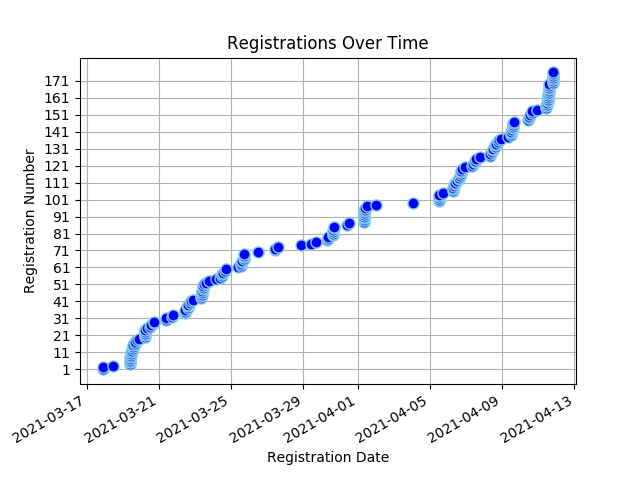
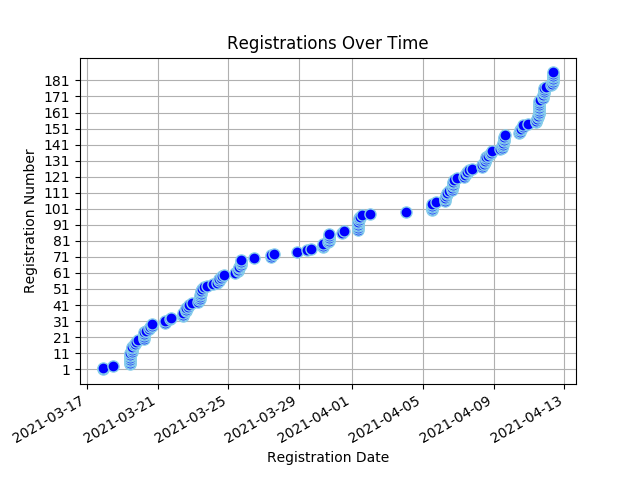
Registree stats backup on Mon 12 Apr 2021 09:20:03 SAST

diff --git a/content/registrees/_index.md b/content/registrees/_index.md
@@ -3,9 +3,9 @@ title: Registration Stats
 draft: false
 ---
 
-<ul><li><strong>Number of Registrees</strong>: 176</li>
+<ul><li><strong>Number of Registrees</strong>: 186</li>
 
-<li><strong>Number of Clubs</strong>: 56</li>
+<li><strong>Number of Clubs</strong>: 59</li>
 
 <li><strong>Club With Most Attendees</strong>: Windhoek (12 registrees)</li>
 </ul><h2>Registrees</h2>
@@ -33,6 +33,6 @@ draft: false
         </tr>
     </thead>
     <tbody>
-<tr><td>Natalie Abrahams</td><td>Cape Town</td><td>410W</td></tr><tr><td>Rashid Adams</td><td>Athlone</td><td>410W</td></tr><tr><td>Linda Anderson</td><td>George</td><td>410W</td></tr><tr><td>Linda Baumgarten</td><td>Sea Point</td><td>410W</td></tr><tr><td>Ulrike Behrens</td><td>Windhoek</td><td>410W</td></tr><tr><td>Valencia Beukes-Williams</td><td>Kuilsriver</td><td>410W</td></tr><tr><td>JOSE BRAGA BORGES</td><td>Malmesbury</td><td>410W</td></tr><tr><td>Paul Brauteseth</td><td>Port Shepstone</td><td>410E</td></tr><tr><td>Nelle Buhrmann</td><td>Sea Point</td><td>410W</td></tr><tr><td>Christopher Bull</td><td>The Wilds</td><td>410E</td></tr><tr><td>Herman Cadman</td><td>Stellenbosch</td><td>410W</td></tr><tr><td>Artemis Calomiris</td><td>Helderberg</td><td>410W</td></tr><tr><td>Linda Ann Cannone</td><td>Fish Hoek</td><td>410W</td></tr><tr><td>Lizelle Castle</td><td>Athlone</td><td>410W</td></tr><tr><td>Sue Charles</td><td>Tokai</td><td>410W</td></tr><tr><td>Perry Chetty</td><td>East Coast</td><td>410E</td></tr><tr><td>Delaney Yeltsin Cloete</td><td>Eden</td><td>410W</td></tr><tr><td>Kate Coppen</td><td>Letaba Tzaneen</td><td>410E</td></tr><tr><td>Kate Coppen</td><td>Letaba Tzaneen</td><td>410E</td></tr><tr><td>Esme Cornelius</td><td>Kuilsriver</td><td>410W</td></tr><tr><td>Sharon Cottle</td><td>Groote Schuur</td><td>410W</td></tr><tr><td>Peter Daniel</td><td>Gordons Bay</td><td>410W</td></tr><tr><td>Norma Daniel</td><td>Gordons Bay</td><td>410W</td></tr><tr><td>Engela de Kock</td><td>Swellendam</td><td>410W</td></tr><tr><td>Francois de Kock</td><td>Swellendam</td><td>410W</td></tr><tr><td>ANDRE DE VILLIERS</td><td>Malgas</td><td>410W</td></tr><tr><td>ANDRE DE VILLIERS</td><td>Malgas</td><td>410W</td></tr><tr><td>Peggy Du Plooy</td><td>Krugersdorp</td><td>410E</td></tr><tr><td>Ivan Du Plooy</td><td>Krugersdorp</td><td>410E</td></tr><tr><td>Desiree du Toit</td><td>Ramsgate</td><td>410E</td></tr><tr><td>Natalie Etridge</td><td>Sedgefield</td><td>410W</td></tr><tr><td>AIDAN Ewers</td><td>Newlands</td><td>410W</td></tr><tr><td>Roger Fahrbach</td><td>Windhoek</td><td>410W</td></tr><tr><td>Beate Fahrbach</td><td>Windhoek</td><td>410W</td></tr><tr><td>Jules Flanagan</td><td>Tokai</td><td>410W</td></tr><tr><td>Charles Flanagan</td><td>Tokai</td><td>410W</td></tr><tr><td>Clive Fox</td><td>Merriman</td><td>410W</td></tr><tr><td>Pat Fox</td><td>Merriman</td><td>410W</td></tr><tr><td>Martin Froise</td><td>Letaba Tzaneen</td><td>410E</td></tr><tr><td>Valerie Graham</td><td>Nelspruit</td><td>410E</td></tr><tr><td>Mike Graham</td><td>Nelspruit</td><td>410E</td></tr><tr><td>Viv Grater</td><td>Sedgefield</td><td>410W</td></tr><tr><td>Matty Grobler</td><td>Henties Bay</td><td>410W</td></tr><tr><td>Mattheus Groves</td><td>Sedgefield</td><td>410W</td></tr><tr><td>Barbara Haywood</td><td>Eden</td><td>410W</td></tr><tr><td>Mike Heathcote</td><td>Port Shepstone</td><td>410E</td></tr><tr><td>Zarina Hendricks</td><td>Athlone</td><td>410W</td></tr><tr><td>Dorothy Hess</td><td>Kuilsriver</td><td>410W</td></tr><tr><td>Wendy Higgins</td><td>Wilro Park</td><td>410E</td></tr><tr><td>Jacqui Hocking</td><td>Midrand</td><td>410E</td></tr><tr><td>Cliff Hocking</td><td>Midrand</td><td>410E</td></tr><tr><td>Liz Houston</td><td>Table View</td><td>410W</td></tr><tr><td>John Houston</td><td>Table View</td><td>410W</td></tr><tr><td>Alna Jackson</td><td>Pretoria Jakaranda</td><td>410E</td></tr><tr><td>Dawid Jacobs</td><td>Durbanville</td><td>410W</td></tr><tr><td>Jean Jacobs</td><td>Mitchells Plain</td><td>410W</td></tr><tr><td>WOLSLEY Jacobson</td><td>Cape Town</td><td>410W</td></tr><tr><td>MALCOLM JOHNSTON</td><td>Standerton</td><td>410E</td></tr><tr><td>Grant Jonathan</td><td>Gordons Bay</td><td>410W</td></tr><tr><td>Jerome Kern</td><td>Groote Schuur</td><td>410W</td></tr><tr><td>Ian King</td><td>Alberton</td><td>410E</td></tr><tr><td>Sandy King</td><td>Alberton</td><td>410E</td></tr><tr><td>Muya Koloko</td><td>Durbanville</td><td>410W</td></tr><tr><td>Zwaai Kruger</td><td>Sedgefield</td><td>410W</td></tr><tr><td>Natalie Laas</td><td>Alberton</td><td>410E</td></tr><tr><td>Bevil Lakay</td><td>Mitchells Plain</td><td>410W</td></tr><tr><td>Paula Lang</td><td>Gordons Bay</td><td>410W</td></tr><tr><td>Jimmy Lang</td><td>Gordons Bay</td><td>410W</td></tr><tr><td>Heather Lee</td><td>Cape Of Good Hope</td><td>410W</td></tr><tr><td>Zarina Luck</td><td>Newcastle</td><td>410E</td></tr><tr><td>Pam MacRobert</td><td>Groote Schuur</td><td>410W</td></tr><tr><td>Pam MacRobert</td><td>Groote Schuur</td><td>410W</td></tr><tr><td>Sharon Mangwende</td><td>Cape Town</td><td>410W</td></tr><tr><td>Richard MARCHANT</td><td>The Wilds</td><td>410E</td></tr><tr><td>Beaulieu Mare</td><td>Benoni Lakes</td><td>410E</td></tr><tr><td>Nick Maré</td><td>Benoni Lakes</td><td>410E</td></tr><tr><td>Jean Masson</td><td>Port Shepstone</td><td>410E</td></tr><tr><td>LANCE MAYTHAM</td><td>Swellendam</td><td>410W</td></tr><tr><td>ROSEMARIE MAYTHAM</td><td>Swellendam</td><td>410W</td></tr><tr><td>David Mccullough</td><td>Pretoria South</td><td>410E</td></tr><tr><td>Rochelle McDonald</td><td>Vereeniging</td><td>410E</td></tr><tr><td>Alec McKerrow</td><td>Port Alfred</td><td>410E</td></tr><tr><td>Stuart McPherson</td><td>Newlands</td><td>410E</td></tr><tr><td>Mark Meltzer</td><td>The Wilds</td><td>410E</td></tr><tr><td>Denis Meyer</td><td>Port Shepstone</td><td>410E</td></tr><tr><td>Roy Michas</td><td>Midrand</td><td>410E</td></tr><tr><td>Dawn Michas</td><td>Midrand</td><td>410E</td></tr><tr><td>BERNICE MILLS</td><td>Centurion</td><td>410E</td></tr><tr><td>Patrick Mills</td><td>Centurion</td><td>410E</td></tr><tr><td>Cherie Milosevich</td><td>Milnerton</td><td>410W</td></tr><tr><td>Alana Mitchell</td><td>Rustenburg</td><td>410E</td></tr><tr><td>Juan Mitchell</td><td>Rustenburg</td><td>410E</td></tr><tr><td>Virginia Mkhize</td><td>Cape Town</td><td>410W</td></tr><tr><td>Frauke E. Moeller</td><td>Windhoek</td><td>410W</td></tr><tr><td>Bernadine Moses</td><td>Cape Town</td><td>410W</td></tr><tr><td>Jacques Mostert</td><td>Merriman</td><td>410W</td></tr><tr><td>Suzanne Murray</td><td>Vereeniging</td><td>410E</td></tr><tr><td>Pieter Myburg</td><td>Wellington</td><td>410W</td></tr><tr><td>Pieter Nel</td><td>George</td><td>410W</td></tr><tr><td>Tillie Nel</td><td>Eden</td><td>410W</td></tr><tr><td>Mike Newlands</td><td>Port Alfred</td><td>410E</td></tr><tr><td>Mike Newlands</td><td>Port Alfred</td><td>410E</td></tr><tr><td>Chris Ocker</td><td>Fish Hoek</td><td>410W</td></tr><tr><td>Jenny Ocker</td><td>Fish Hoek</td><td>410W</td></tr><tr><td>Debra Olivier</td><td>Sedgefield</td><td>410W</td></tr><tr><td>Teresa Pantoleon</td><td>Vereeniging</td><td>410E</td></tr><tr><td>Sundru Pillay</td><td>Durbanville</td><td>410W</td></tr><tr><td>Tracey Polkinghorne</td><td>Kensington</td><td>410E</td></tr><tr><td>Gavin Polkinghorne</td><td>Kensington</td><td>410E</td></tr><tr><td>BRIAN PORTEOUS</td><td>Hibberdene</td><td>410E</td></tr><tr><td>Mary-Anne Ras</td><td>Swellendam</td><td>410W</td></tr><tr><td>Hugo Reniers</td><td>Nelspruit</td><td>410E</td></tr><tr><td>Sandy Roman</td><td>Bergvliet</td><td>410W</td></tr><tr><td>Mark Rossouw</td><td>Tokai</td><td>410W</td></tr><tr><td>Anthonie Petrus Roux</td><td>Moorreesburg</td><td>410W</td></tr><tr><td>Irene Rugheimer</td><td>Bedfordview</td><td>410E</td></tr><tr><td>Ingrid Russell</td><td>Fish Hoek</td><td>410W</td></tr><tr><td>Rodney Sabatier</td><td>Letaba Tzaneen</td><td>410E</td></tr><tr><td>Sharon Sampie</td><td>Bergvliet</td><td>410W</td></tr><tr><td>Frank Schatz</td><td>Windhoek</td><td>410W</td></tr><tr><td>Vera Schatz</td><td>Windhoek</td><td>410W</td></tr><tr><td>Francis Searle</td><td>Kouga</td><td>410E</td></tr><tr><td>Gloria Searle</td><td>Kouga</td><td>410E</td></tr><tr><td>Ami Sell</td><td>Windhoek</td><td>410W</td></tr><tr><td>Beryl Simpson</td><td>Cape Town</td><td>410W</td></tr><tr><td>Kenlis Sircoulomb</td><td>Windhoek</td><td>410W</td></tr><tr><td>Holger Sircoulomb</td><td>Windhoek</td><td>410W</td></tr><tr><td>Hennie Smeer</td><td>Windhoek</td><td>410W</td></tr><tr><td>Sue Smit</td><td>Centurion</td><td>410E</td></tr><tr><td>Herman Smit</td><td>Swellendam</td><td>410W</td></tr><tr><td>Jeff Smith</td><td>Port Shepstone</td><td>410E</td></tr><tr><td>Bennie Smith</td><td>Wellington</td><td>410W</td></tr><tr><td>Carmen Dolores Smith</td><td>Tokai</td><td>410W</td></tr><tr><td>David John Smith</td><td>Tokai</td><td>410W</td></tr><tr><td>LYN SNYMAN</td><td>Deep South</td><td>410W</td></tr><tr><td>Diana Sochen</td><td>Sea Point</td><td>410W</td></tr><tr><td>Max Stander</td><td>Port Alfred</td><td>410E</td></tr><tr><td>Ashley Stander</td><td>Krugersdorp</td><td>410E</td></tr><tr><td>Brett Jason Stander</td><td>Krugersdorp</td><td>410E</td></tr><tr><td>TIM STEENBERG</td><td>Wellington</td><td>410W</td></tr><tr><td>RORY stier</td><td>Deep South</td><td>410W</td></tr><tr><td>Patrick Strauss</td><td>Kuilsriver</td><td>410W</td></tr><tr><td>Lauryn Talbot</td><td>Benoni Lakes</td><td>410E</td></tr><tr><td>Pierre Theron</td><td>Midrand</td><td>410E</td></tr><tr><td>Moira Theron</td><td>Midrand</td><td>410E</td></tr><tr><td>Diane Townsend</td><td>Benoni Lakes</td><td>410E</td></tr><tr><td>Diane Townsend</td><td>Benoni Lakes</td><td>410E</td></tr><tr><td>David Alex Tshikala</td><td>Athlone</td><td>410W</td></tr><tr><td>Alistair Tuckett</td><td>Roodepoort Clearwater Cyber</td><td>410E</td></tr><tr><td>Rowan Tuckett</td><td>Roodepoort Clearwater Cyber</td><td>410E</td></tr><tr><td>Gail Tuckett</td><td>Roodepoort Clearwater Cyber</td><td>410E</td></tr><tr><td>Jiri Uchytil</td><td>Alberton</td><td>410E</td></tr><tr><td>Carl van Blerk</td><td>Eden</td><td>410W</td></tr><tr><td>HILARY LISE VAN BREDA</td><td>Cape Town</td><td>410W</td></tr><tr><td>Marina Van de Merwe</td><td>Malmesbury</td><td>410W</td></tr><tr><td>Ingrid van der Merwe</td><td>Letaba Tzaneen</td><td>410E</td></tr><tr><td>Sydney van Heerden</td><td>Wilro Park</td><td>410E</td></tr><tr><td>Sandy van Heerden</td><td>Wilro Park</td><td>410E</td></tr><tr><td>Neville Van Rensburg</td><td>Moorreesburg</td><td>410W</td></tr><tr><td>Johan van Rensburg</td><td>Windhoek</td><td>410W</td></tr><tr><td>Anne van Rensburg</td><td>Windhoek</td><td>410W</td></tr><tr><td>Jeannie van Wulven</td><td>Tygerberg Hills</td><td>410W</td></tr><tr><td>Alan van Wulven</td><td>Tygerberg Hills</td><td>410W</td></tr><tr><td>Deon van Wulven</td><td>Tygerberg Hills</td><td>410W</td></tr><tr><td>Kim van Wyk</td><td>North Durban</td><td>410E</td></tr><tr><td>Lindie van Wyk</td><td>Pretoria Jakaranda</td><td>410E</td></tr><tr><td>Edith Van Wyk-Nelson</td><td>Kuilsriver</td><td>410W</td></tr><tr><td>Russell Volker</td><td>King William's Town</td><td>410E</td></tr><tr><td>Brian von der Decken</td><td>King William's Town</td><td>410E</td></tr><tr><td>Rinette Von Mollendorf</td><td>Durbanville</td><td>410W</td></tr><tr><td>Rochelle Vorster</td><td>Sedgefield</td><td>410W</td></tr><tr><td>Alastair Warman</td><td>Port Shepstone</td><td>410E</td></tr><tr><td>Allan Watson</td><td>Sea Point</td><td>410W</td></tr><tr><td>Neville Williamson</td><td>Port Alfred</td><td>410E</td></tr><tr><td>Rocky Wright</td><td>Table View</td><td>410W</td></tr><tr><td>Judy Young</td><td>Durbanville</td><td>410W</td></tr>
+<tr><td>Natalie Abrahams</td><td>Cape Town</td><td>410W</td></tr><tr><td>Rashid Adams</td><td>Athlone</td><td>410W</td></tr><tr><td>Linda Anderson</td><td>George</td><td>410W</td></tr><tr><td>Linda Baumgarten</td><td>Sea Point</td><td>410W</td></tr><tr><td>Ulrike Behrens</td><td>Windhoek</td><td>410W</td></tr><tr><td>Valencia Beukes-Williams</td><td>Kuilsriver</td><td>410W</td></tr><tr><td>Belinda Blakeman</td><td>North Durban</td><td>410E</td></tr><tr><td>JOSE BRAGA BORGES</td><td>Malmesbury</td><td>410W</td></tr><tr><td>JOSE BRAGA BORGES</td><td>Malmesbury</td><td>410W</td></tr><tr><td>Paul Brauteseth</td><td>Port Shepstone</td><td>410E</td></tr><tr><td>Nelle Buhrmann</td><td>Sea Point</td><td>410W</td></tr><tr><td>Christopher Bull</td><td>The Wilds</td><td>410E</td></tr><tr><td>Herman Cadman</td><td>Stellenbosch</td><td>410W</td></tr><tr><td>Artemis Calomiris</td><td>Helderberg</td><td>410W</td></tr><tr><td>Linda Ann Cannone</td><td>Fish Hoek</td><td>410W</td></tr><tr><td>Lizelle Castle</td><td>Athlone</td><td>410W</td></tr><tr><td>Sue Charles</td><td>Tokai</td><td>410W</td></tr><tr><td>Perry Chetty</td><td>East Coast</td><td>410E</td></tr><tr><td>Delaney Yeltsin Cloete</td><td>Eden</td><td>410W</td></tr><tr><td>Kate Coppen</td><td>Letaba Tzaneen</td><td>410E</td></tr><tr><td>Kate Coppen</td><td>Letaba Tzaneen</td><td>410E</td></tr><tr><td>Esme Cornelius</td><td>Kuilsriver</td><td>410W</td></tr><tr><td>Sharon Cottle</td><td>Groote Schuur</td><td>410W</td></tr><tr><td>Peter Daniel</td><td>Gordons Bay</td><td>410W</td></tr><tr><td>Norma Daniel</td><td>Gordons Bay</td><td>410W</td></tr><tr><td>Engela de Kock</td><td>Swellendam</td><td>410W</td></tr><tr><td>Francois de Kock</td><td>Swellendam</td><td>410W</td></tr><tr><td>ANDRE DE VILLIERS</td><td>Malgas</td><td>410W</td></tr><tr><td>ANDRE DE VILLIERS</td><td>Malgas</td><td>410W</td></tr><tr><td>Peggy Du Plooy</td><td>Krugersdorp</td><td>410E</td></tr><tr><td>Ivan Du Plooy</td><td>Krugersdorp</td><td>410E</td></tr><tr><td>Tammy du Plooy</td><td>Alberton</td><td>410E</td></tr><tr><td>Marc du Plooy</td><td>Alberton</td><td>410E</td></tr><tr><td>Desiree du Toit</td><td>Ramsgate</td><td>410E</td></tr><tr><td>Natalie Etridge</td><td>Sedgefield</td><td>410W</td></tr><tr><td>AIDAN Ewers</td><td>Newlands</td><td>410W</td></tr><tr><td>Roger Fahrbach</td><td>Windhoek</td><td>410W</td></tr><tr><td>Beate Fahrbach</td><td>Windhoek</td><td>410W</td></tr><tr><td>Jules Flanagan</td><td>Tokai</td><td>410W</td></tr><tr><td>Charles Flanagan</td><td>Tokai</td><td>410W</td></tr><tr><td>Clive Fox</td><td>Merriman</td><td>410W</td></tr><tr><td>Pat Fox</td><td>Merriman</td><td>410W</td></tr><tr><td>Martin Froise</td><td>Letaba Tzaneen</td><td>410E</td></tr><tr><td>Valerie Graham</td><td>Nelspruit</td><td>410E</td></tr><tr><td>Mike Graham</td><td>Nelspruit</td><td>410E</td></tr><tr><td>Viv Grater</td><td>Sedgefield</td><td>410W</td></tr><tr><td>Matty Grobler</td><td>Henties Bay</td><td>410W</td></tr><tr><td>Mattheus Groves</td><td>Sedgefield</td><td>410W</td></tr><tr><td>Barbara Haywood</td><td>Eden</td><td>410W</td></tr><tr><td>Mike Heathcote</td><td>Port Shepstone</td><td>410E</td></tr><tr><td>Zarina Hendricks</td><td>Athlone</td><td>410W</td></tr><tr><td>Dorothy Hess</td><td>Kuilsriver</td><td>410W</td></tr><tr><td>Wendy Higgins</td><td>Wilro Park</td><td>410E</td></tr><tr><td>Jacqui Hocking</td><td>Midrand</td><td>410E</td></tr><tr><td>Cliff Hocking</td><td>Midrand</td><td>410E</td></tr><tr><td>Liz Houston</td><td>Table View</td><td>410W</td></tr><tr><td>John Houston</td><td>Table View</td><td>410W</td></tr><tr><td>Alna Jackson</td><td>Pretoria Jakaranda</td><td>410E</td></tr><tr><td>Dawid Jacobs</td><td>Durbanville</td><td>410W</td></tr><tr><td>Jean Jacobs</td><td>Mitchells Plain</td><td>410W</td></tr><tr><td>WOLSLEY Jacobson</td><td>Cape Town</td><td>410W</td></tr><tr><td>MALCOLM JOHNSTON</td><td>Standerton</td><td>410E</td></tr><tr><td>Grant Jonathan</td><td>Gordons Bay</td><td>410W</td></tr><tr><td>Jerome Kern</td><td>Groote Schuur</td><td>410W</td></tr><tr><td>Ian King</td><td>Alberton</td><td>410E</td></tr><tr><td>Sandy King</td><td>Alberton</td><td>410E</td></tr><tr><td>Christa Koekemoer</td><td>Letaba Tzaneen</td><td>410E</td></tr><tr><td>Muya Koloko</td><td>Durbanville</td><td>410W</td></tr><tr><td>Zwaai Kruger</td><td>Sedgefield</td><td>410W</td></tr><tr><td>Natalie Laas</td><td>Alberton</td><td>410E</td></tr><tr><td>Bevil Lakay</td><td>Mitchells Plain</td><td>410W</td></tr><tr><td>Paula Lang</td><td>Gordons Bay</td><td>410W</td></tr><tr><td>Jimmy Lang</td><td>Gordons Bay</td><td>410W</td></tr><tr><td>Jeanette le Roux</td><td>Gonubie</td><td>410E</td></tr><tr><td>Heather Lee</td><td>Cape Of Good Hope</td><td>410W</td></tr><tr><td>Zarina Luck</td><td>Newcastle</td><td>410E</td></tr><tr><td>Pam MacRobert</td><td>Groote Schuur</td><td>410W</td></tr><tr><td>Pam MacRobert</td><td>Groote Schuur</td><td>410W</td></tr><tr><td>Sharon Mangwende</td><td>Cape Town</td><td>410W</td></tr><tr><td>Richard MARCHANT</td><td>The Wilds</td><td>410E</td></tr><tr><td>Beaulieu Mare</td><td>Benoni Lakes</td><td>410E</td></tr><tr><td>Nick Maré</td><td>Benoni Lakes</td><td>410E</td></tr><tr><td>Jean Masson</td><td>Port Shepstone</td><td>410E</td></tr><tr><td>LANCE MAYTHAM</td><td>Swellendam</td><td>410W</td></tr><tr><td>ROSEMARIE MAYTHAM</td><td>Swellendam</td><td>410W</td></tr><tr><td>David Mccullough</td><td>Pretoria South</td><td>410E</td></tr><tr><td>Rochelle McDonald</td><td>Vereeniging</td><td>410E</td></tr><tr><td>Alec McKerrow</td><td>Port Alfred</td><td>410E</td></tr><tr><td>Stuart McPherson</td><td>Newlands</td><td>410E</td></tr><tr><td>Mark Meltzer</td><td>The Wilds</td><td>410E</td></tr><tr><td>Denis Meyer</td><td>Port Shepstone</td><td>410E</td></tr><tr><td>Roy Michas</td><td>Midrand</td><td>410E</td></tr><tr><td>Dawn Michas</td><td>Midrand</td><td>410E</td></tr><tr><td>BERNICE MILLS</td><td>Centurion</td><td>410E</td></tr><tr><td>Patrick Mills</td><td>Centurion</td><td>410E</td></tr><tr><td>Cherie Milosevich</td><td>Milnerton</td><td>410W</td></tr><tr><td>Alana Mitchell</td><td>Rustenburg</td><td>410E</td></tr><tr><td>Juan Mitchell</td><td>Rustenburg</td><td>410E</td></tr><tr><td>Virginia Mkhize</td><td>Cape Town</td><td>410W</td></tr><tr><td>Frauke E. Moeller</td><td>Windhoek</td><td>410W</td></tr><tr><td>Bernadine Moses</td><td>Cape Town</td><td>410W</td></tr><tr><td>Jacques Mostert</td><td>Merriman</td><td>410W</td></tr><tr><td>Suzanne Murray</td><td>Vereeniging</td><td>410E</td></tr><tr><td>Pieter Myburg</td><td>Wellington</td><td>410W</td></tr><tr><td>Pieter Nel</td><td>George</td><td>410W</td></tr><tr><td>Tillie Nel</td><td>Eden</td><td>410W</td></tr><tr><td>Mike Newlands</td><td>Port Alfred</td><td>410E</td></tr><tr><td>Mike Newlands</td><td>Port Alfred</td><td>410E</td></tr><tr><td>Chris Ocker</td><td>Fish Hoek</td><td>410W</td></tr><tr><td>Jenny Ocker</td><td>Fish Hoek</td><td>410W</td></tr><tr><td>Debra Olivier</td><td>Sedgefield</td><td>410W</td></tr><tr><td>Teresa Pantoleon</td><td>Vereeniging</td><td>410E</td></tr><tr><td>Sundru Pillay</td><td>Durbanville</td><td>410W</td></tr><tr><td>Tracey Polkinghorne</td><td>Kensington</td><td>410E</td></tr><tr><td>Gavin Polkinghorne</td><td>Kensington</td><td>410E</td></tr><tr><td>BRIAN PORTEOUS</td><td>Hibberdene</td><td>410E</td></tr><tr><td>Mary-Anne Ras</td><td>Swellendam</td><td>410W</td></tr><tr><td>Hugo Reniers</td><td>Nelspruit</td><td>410E</td></tr><tr><td>Sandy Roman</td><td>Bergvliet</td><td>410W</td></tr><tr><td>Mark Rossouw</td><td>Tokai</td><td>410W</td></tr><tr><td>Anthonie Petrus Roux</td><td>Moorreesburg</td><td>410W</td></tr><tr><td>Irene Rugheimer</td><td>Bedfordview</td><td>410E</td></tr><tr><td>Ingrid Russell</td><td>Fish Hoek</td><td>410W</td></tr><tr><td>Rodney Sabatier</td><td>Letaba Tzaneen</td><td>410E</td></tr><tr><td>Sharon Sampie</td><td>Bergvliet</td><td>410W</td></tr><tr><td>Frank Schatz</td><td>Windhoek</td><td>410W</td></tr><tr><td>Vera Schatz</td><td>Windhoek</td><td>410W</td></tr><tr><td>Francis Searle</td><td>Kouga</td><td>410E</td></tr><tr><td>Gloria Searle</td><td>Kouga</td><td>410E</td></tr><tr><td>Ami Sell</td><td>Windhoek</td><td>410W</td></tr><tr><td>Beryl Simpson</td><td>Cape Town</td><td>410W</td></tr><tr><td>Kenlis Sircoulomb</td><td>Windhoek</td><td>410W</td></tr><tr><td>Holger Sircoulomb</td><td>Windhoek</td><td>410W</td></tr><tr><td>Hennie Smeer</td><td>Windhoek</td><td>410W</td></tr><tr><td>Sue Smit</td><td>Centurion</td><td>410E</td></tr><tr><td>Herman Smit</td><td>Swellendam</td><td>410W</td></tr><tr><td>Jeff Smith</td><td>Port Shepstone</td><td>410E</td></tr><tr><td>Bennie Smith</td><td>Wellington</td><td>410W</td></tr><tr><td>Carmen Dolores Smith</td><td>Tokai</td><td>410W</td></tr><tr><td>David John Smith</td><td>Tokai</td><td>410W</td></tr><tr><td>LYN SNYMAN</td><td>Deep South</td><td>410W</td></tr><tr><td>Diana Sochen</td><td>Sea Point</td><td>410W</td></tr><tr><td>Max Stander</td><td>Port Alfred</td><td>410E</td></tr><tr><td>Ashley Stander</td><td>Krugersdorp</td><td>410E</td></tr><tr><td>Brett Jason Stander</td><td>Krugersdorp</td><td>410E</td></tr><tr><td>TIM STEENBERG</td><td>Wellington</td><td>410W</td></tr><tr><td>RORY stier</td><td>Deep South</td><td>410W</td></tr><tr><td>Patrick Strauss</td><td>Kuilsriver</td><td>410W</td></tr><tr><td>Lauryn Talbot</td><td>Benoni Lakes</td><td>410E</td></tr><tr><td>Pierre Theron</td><td>Midrand</td><td>410E</td></tr><tr><td>Moira Theron</td><td>Midrand</td><td>410E</td></tr><tr><td>Diane Townsend</td><td>Benoni Lakes</td><td>410E</td></tr><tr><td>Diane Townsend</td><td>Benoni Lakes</td><td>410E</td></tr><tr><td>David Alex Tshikala</td><td>Athlone</td><td>410W</td></tr><tr><td>Alistair Tuckett</td><td>Roodepoort Clearwater Cyber</td><td>410E</td></tr><tr><td>Rowan Tuckett</td><td>Roodepoort Clearwater Cyber</td><td>410E</td></tr><tr><td>Gail Tuckett</td><td>Roodepoort Clearwater Cyber</td><td>410E</td></tr><tr><td>Jiri Uchytil</td><td>Alberton</td><td>410E</td></tr><tr><td>Carl van Blerk</td><td>Eden</td><td>410W</td></tr><tr><td>HILARY LISE VAN BREDA</td><td>Cape Town</td><td>410W</td></tr><tr><td>Marina Van de Merwe</td><td>Malmesbury</td><td>410W</td></tr><tr><td>Ingrid van der Merwe</td><td>Letaba Tzaneen</td><td>410E</td></tr><tr><td>PATRICIA VAN DER MERWE</td><td>East London Port Rex</td><td>410E</td></tr><tr><td>MARINA VAN DER MERWE</td><td>Malmesbury</td><td>410W</td></tr><tr><td>Sydney van Heerden</td><td>Wilro Park</td><td>410E</td></tr><tr><td>Sandy van Heerden</td><td>Wilro Park</td><td>410E</td></tr><tr><td>Craig van Heerden</td><td>East London Beacon Bay</td><td>410E</td></tr><tr><td>Neville Van Rensburg</td><td>Moorreesburg</td><td>410W</td></tr><tr><td>Johan van Rensburg</td><td>Windhoek</td><td>410W</td></tr><tr><td>Anne van Rensburg</td><td>Windhoek</td><td>410W</td></tr><tr><td>Jeannie van Wulven</td><td>Tygerberg Hills</td><td>410W</td></tr><tr><td>Alan van Wulven</td><td>Tygerberg Hills</td><td>410W</td></tr><tr><td>Deon van Wulven</td><td>Tygerberg Hills</td><td>410W</td></tr><tr><td>Kim van Wyk</td><td>North Durban</td><td>410E</td></tr><tr><td>Lindie van Wyk</td><td>Pretoria Jakaranda</td><td>410E</td></tr><tr><td>Edith Van Wyk-Nelson</td><td>Kuilsriver</td><td>410W</td></tr><tr><td>Louis Venter</td><td>Letaba Tzaneen</td><td>410E</td></tr><tr><td>Russell Volker</td><td>King William's Town</td><td>410E</td></tr><tr><td>Brian von der Decken</td><td>King William's Town</td><td>410E</td></tr><tr><td>Rinette Von Mollendorf</td><td>Durbanville</td><td>410W</td></tr><tr><td>Rochelle Vorster</td><td>Sedgefield</td><td>410W</td></tr><tr><td>Alastair Warman</td><td>Port Shepstone</td><td>410E</td></tr><tr><td>Allan Watson</td><td>Sea Point</td><td>410W</td></tr><tr><td>Neville Williamson</td><td>Port Alfred</td><td>410E</td></tr><tr><td>Rocky Wright</td><td>Table View</td><td>410W</td></tr><tr><td>Judy Young</td><td>Durbanville</td><td>410W</td></tr>
 </tbody>
 </table>

diff --git a/content/full_stats/_index.md b/content/full_stats/_index.md
@@ -16,17 +16,17 @@ draft: false
 </head>
 <body>
 <h1 style="color: #000000;">Full Registration Stats</h1>
-<ul><li><strong>Number of Registrees</strong>: 176</li>
-<li><strong>Number of Clubs</strong>: 56</li>
+<ul><li><strong>Number of Registrees</strong>: 186</li>
+<li><strong>Number of Clubs</strong>: 59</li>
 <li><strong>Club With Most Attendees</strong>: Windhoek (12 registrees)</li>
 
-<li><strong>Number of District 410W Convention Attendees</strong>: 100</li>
-<li><strong>Number of District 410W Convention Voters</strong>: 46</li>
-<li><strong>Number of District 410E Convention Attendees</strong>: 69</li>
-<li><strong>Number of District 410E Convention Voters</strong>: 38</li>
+<li><strong>Number of District 410W Convention Attendees</strong>: 102</li>
+<li><strong>Number of District 410W Convention Voters</strong>: 47</li>
+<li><strong>Number of District 410E Convention Attendees</strong>: 75</li>
+<li><strong>Number of District 410E Convention Voters</strong>: 42</li>
 
-<li><strong>Number of MD410 Convention Attendees</strong>: 149</li>
-<li><strong>Number of MD410 Convention Voters</strong>: 77</li>
+<li><strong>Number of MD410 Convention Attendees</strong>: 155</li>
+<li><strong>Number of MD410 Convention Voters</strong>: 80</li>
 
 </ul>
 <h2>Registrees</h2>
@@ -127,7 +127,29 @@ draft: false
 </tr>
 
     
+<td>197</td>
+<td>Belinda Blakeman</td>
+<td>North Durban</td>
+<td>410E</td>
+<td>No</td>
+<td>No</td>
+<td style="background-color: lightgreen">Yes</td>
+<td>No</td>
+</tr>
+
+    
 <td>35</td>
+<td>JOSE BRAGA BORGES</td>
+<td>Malmesbury</td>
+<td>410W</td>
+<td>No</td>
+<td style="background-color: lightgreen">Yes</td>
+<td style="background-color: lightgreen">Yes</td>
+<td>No</td>
+</tr>
+
+    
+<td>193</td>
 <td>JOSE BRAGA BORGES</td>
 <td>Malmesbury</td>
 <td>410W</td>
@@ -376,6 +398,28 @@ draft: false
 <td style="background-color: lightgreen">Yes</td>
 <td style="background-color: lightgreen">Yes</td>
 <td style="background-color: lightgreen">Yes</td>
+<td>No</td>
+</tr>
+
+    
+<td>195</td>
+<td>Tammy du Plooy</td>
+<td>Alberton</td>
+<td>410E</td>
+<td style="background-color: lightgreen">Yes</td>
+<td style="background-color: lightgreen">Yes</td>
+<td>No</td>
+<td>No</td>
+</tr>
+
+    
+<td>196</td>
+<td>Marc du Plooy</td>
+<td>Alberton</td>
+<td>410E</td>
+<td style="background-color: lightgreen">Yes</td>
+<td style="background-color: lightgreen">Yes</td>
+<td>No</td>
 <td>No</td>
 </tr>
 
@@ -743,6 +787,17 @@ draft: false
 </tr>
 
     
+<td>189</td>
+<td>Christa Koekemoer</td>
+<td>Letaba Tzaneen</td>
+<td>410E</td>
+<td>No</td>
+<td style="background-color: lightgreen">Yes</td>
+<td style="background-color: lightgreen">Yes</td>
+<td>No</td>
+</tr>
+
+    
 <td>129</td>
 <td>Muya Koloko</td>
 <td>Durbanville</td>
@@ -805,6 +860,17 @@ draft: false
 <td>No</td>
 <td style="background-color: lightgreen">Yes</td>
 <td style="background-color: lightgreen">Yes</td>
+<td>No</td>
+</tr>
+
+    
+<td>194</td>
+<td>Jeanette le Roux</td>
+<td>Gonubie</td>
+<td>410E</td>
+<td>No</td>
+<td style="background-color: lightgreen">Yes</td>
+<td>No</td>
 <td>No</td>
 </tr>
 
@@ -1777,6 +1843,28 @@ draft: false
 </tr>
 
     
+<td>191</td>
+<td>PATRICIA VAN DER MERWE</td>
+<td>East London Port Rex</td>
+<td>410E</td>
+<td style="background-color: lightgreen">Yes</td>
+<td style="background-color: lightgreen">Yes</td>
+<td style="background-color: lightgreen">Yes</td>
+<td style="background-color: lightgreen">Yes</td>
+</tr>
+
+    
+<td>192</td>
+<td>MARINA VAN DER MERWE</td>
+<td>Malmesbury</td>
+<td>410W</td>
+<td style="background-color: lightgreen">Yes</td>
+<td style="background-color: lightgreen">Yes</td>
+<td style="background-color: lightgreen">Yes</td>
+<td>No</td>
+</tr>
+
+    
 <td>119</td>
 <td>Sydney van Heerden</td>
 <td>Wilro Park</td>
@@ -1796,6 +1884,17 @@ draft: false
 <td style="background-color: lightgreen">Yes</td>
 <td style="background-color: lightgreen">Yes</td>
 <td>No</td>
+</tr>
+
+    
+<td>190</td>
+<td>Craig van Heerden</td>
+<td>East London Beacon Bay</td>
+<td>410E</td>
+<td style="background-color: lightgreen">Yes</td>
+<td>No</td>
+<td>No</td>
+<td style="background-color: lightgreen">Yes</td>
 </tr>
 
     
@@ -1892,6 +1991,17 @@ draft: false
 <td>Kuilsriver</td>
 <td>410W</td>
 <td>No</td>
+<td style="background-color: lightgreen">Yes</td>
+<td style="background-color: lightgreen">Yes</td>
+<td style="background-color: lightgreen">Yes</td>
+</tr>
+
+    
+<td>188</td>
+<td>Louis Venter</td>
+<td>Letaba Tzaneen</td>
+<td>410E</td>
+<td style="background-color: lightgreen">Yes</td>
 <td style="background-color: lightgreen">Yes</td>
 <td style="background-color: lightgreen">Yes</td>
 <td style="background-color: lightgreen">Yes</td>
